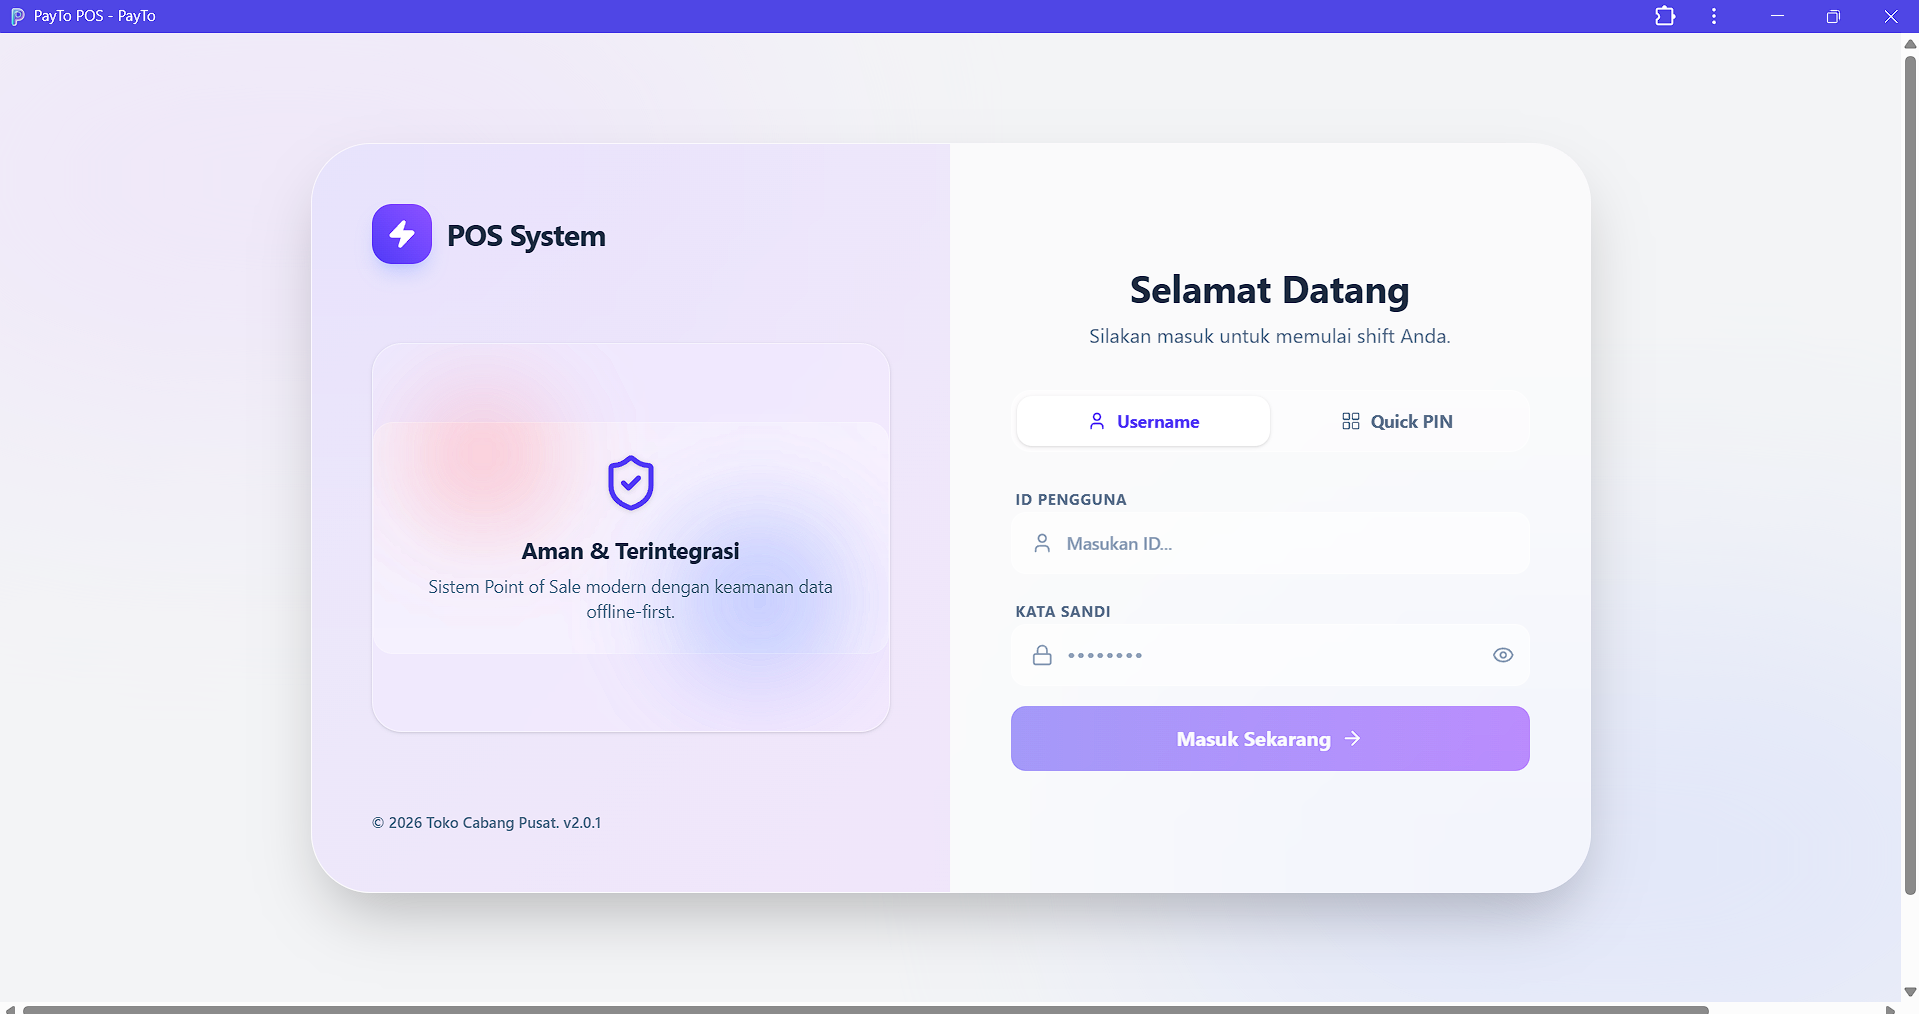
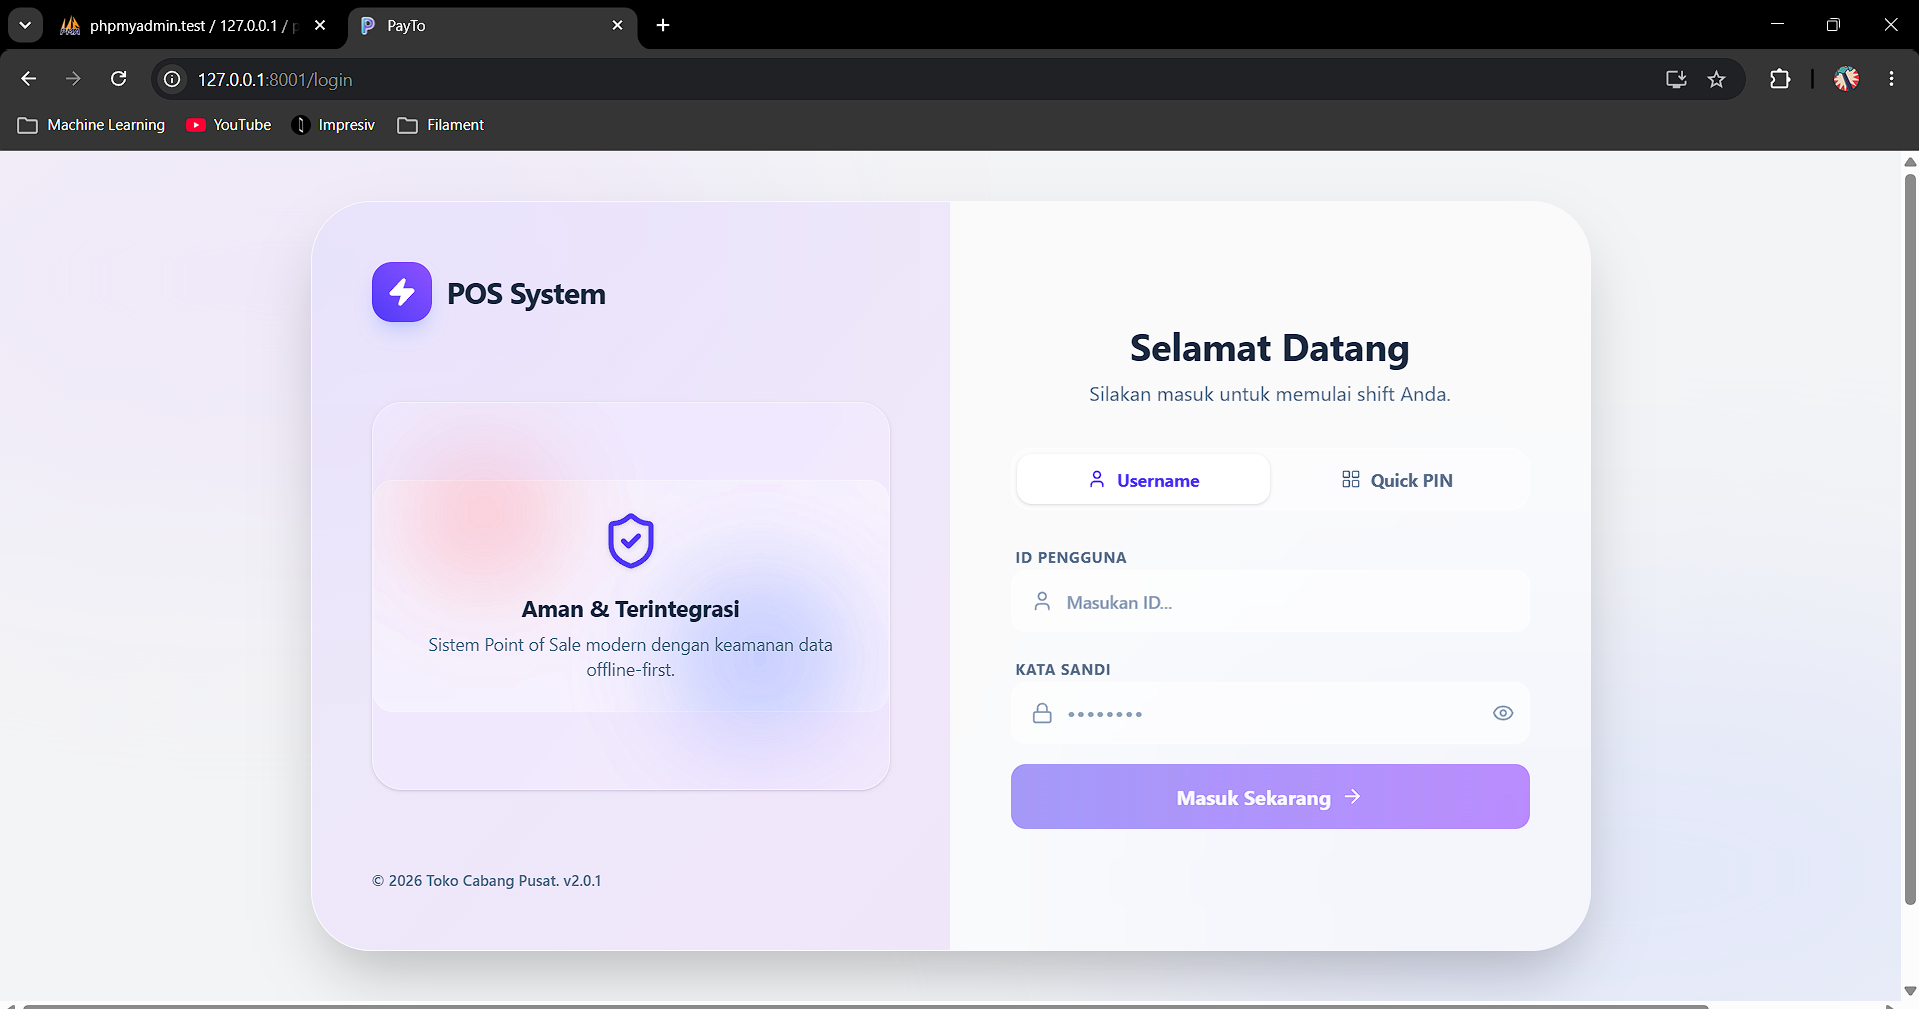
Refactor code structure for improved readability and maintainability

diff --git a/README.md b/README.md
@@ -32,6 +32,20 @@ PayTo adalah aplikasi kasir digital yang dirancang untuk memudahkan operasional 
 
 ---
 
+## Fitur yang Akan Datang
+
+Kami terus mengembangkan PayTo untuk memberikan pengalaman yang lebih baik. Berikut adalah fitur-fitur yang sedang dalam pengembangan:
+
+### Guest Mode dan Katalog Online
+- **Akses Tamu** - Pengunjung dapat melihat katalog produk tanpa login
+- **Katalog Interaktif** - Tampilan produk dengan foto, harga, dan ketersediaan stok
+- **Landing Page Dinamis** - Halaman depan yang menampilkan produk unggulan
+
+### Integrasi WhatsApp
+- **Pemesanan via WhatsApp** - Pelanggan dapat memesan produk langsung melalui WhatsApp
+
+---
+
 ## Galeri Aplikasi
 
 ### Halaman Landing